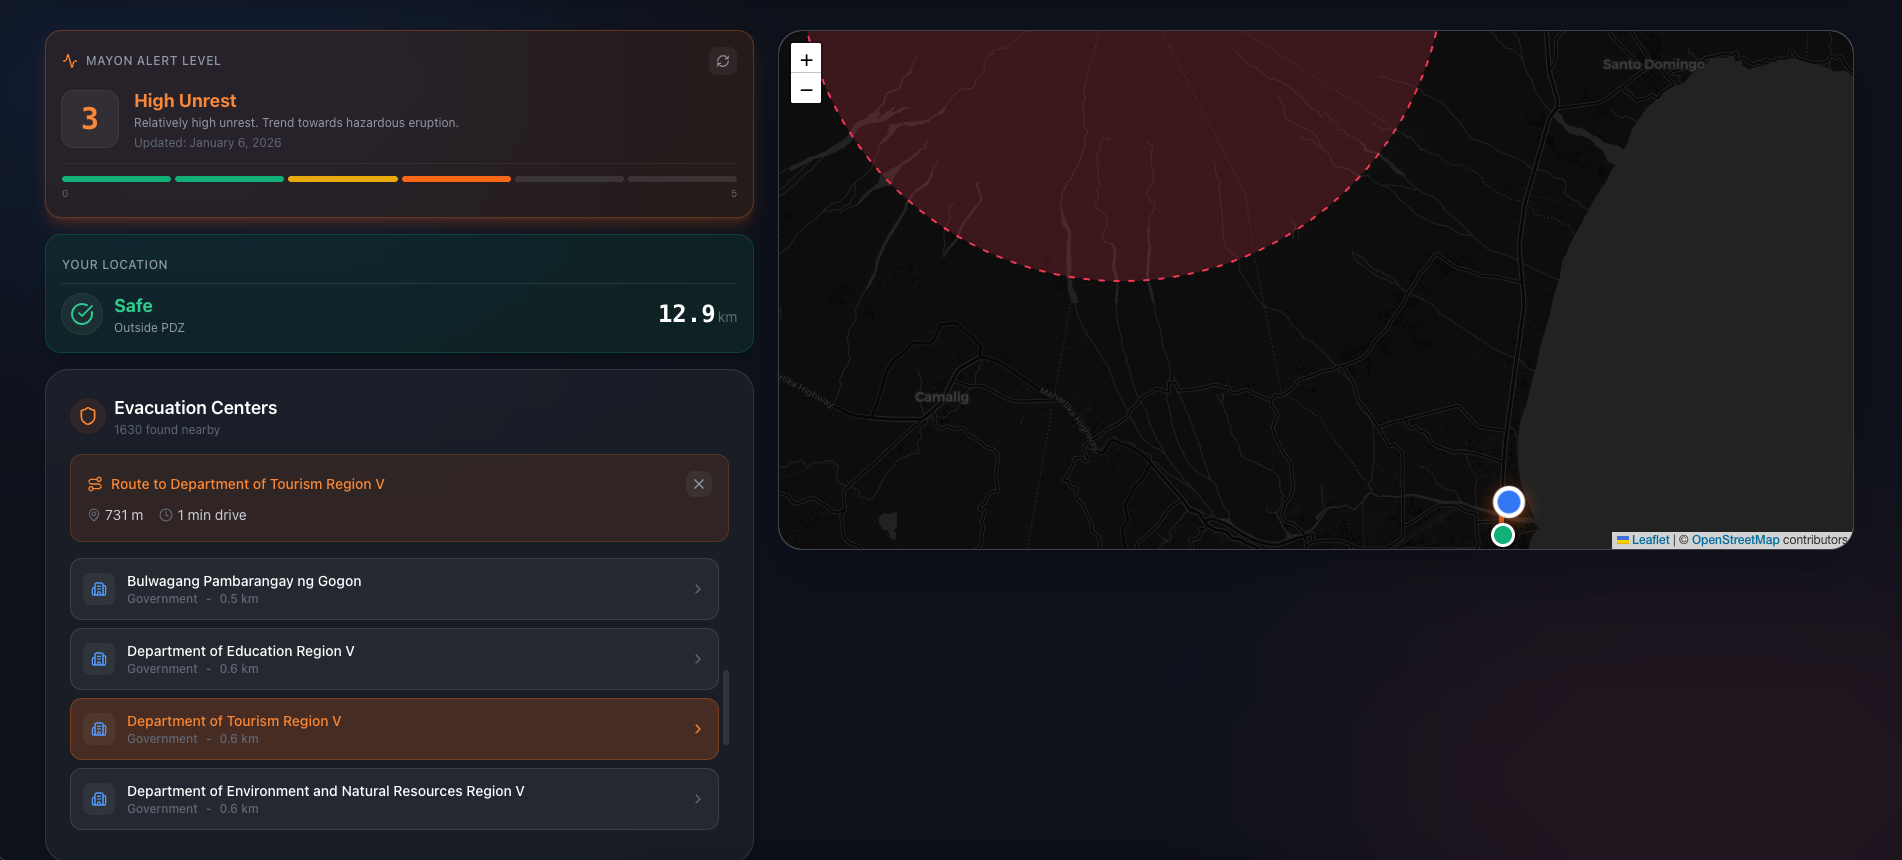
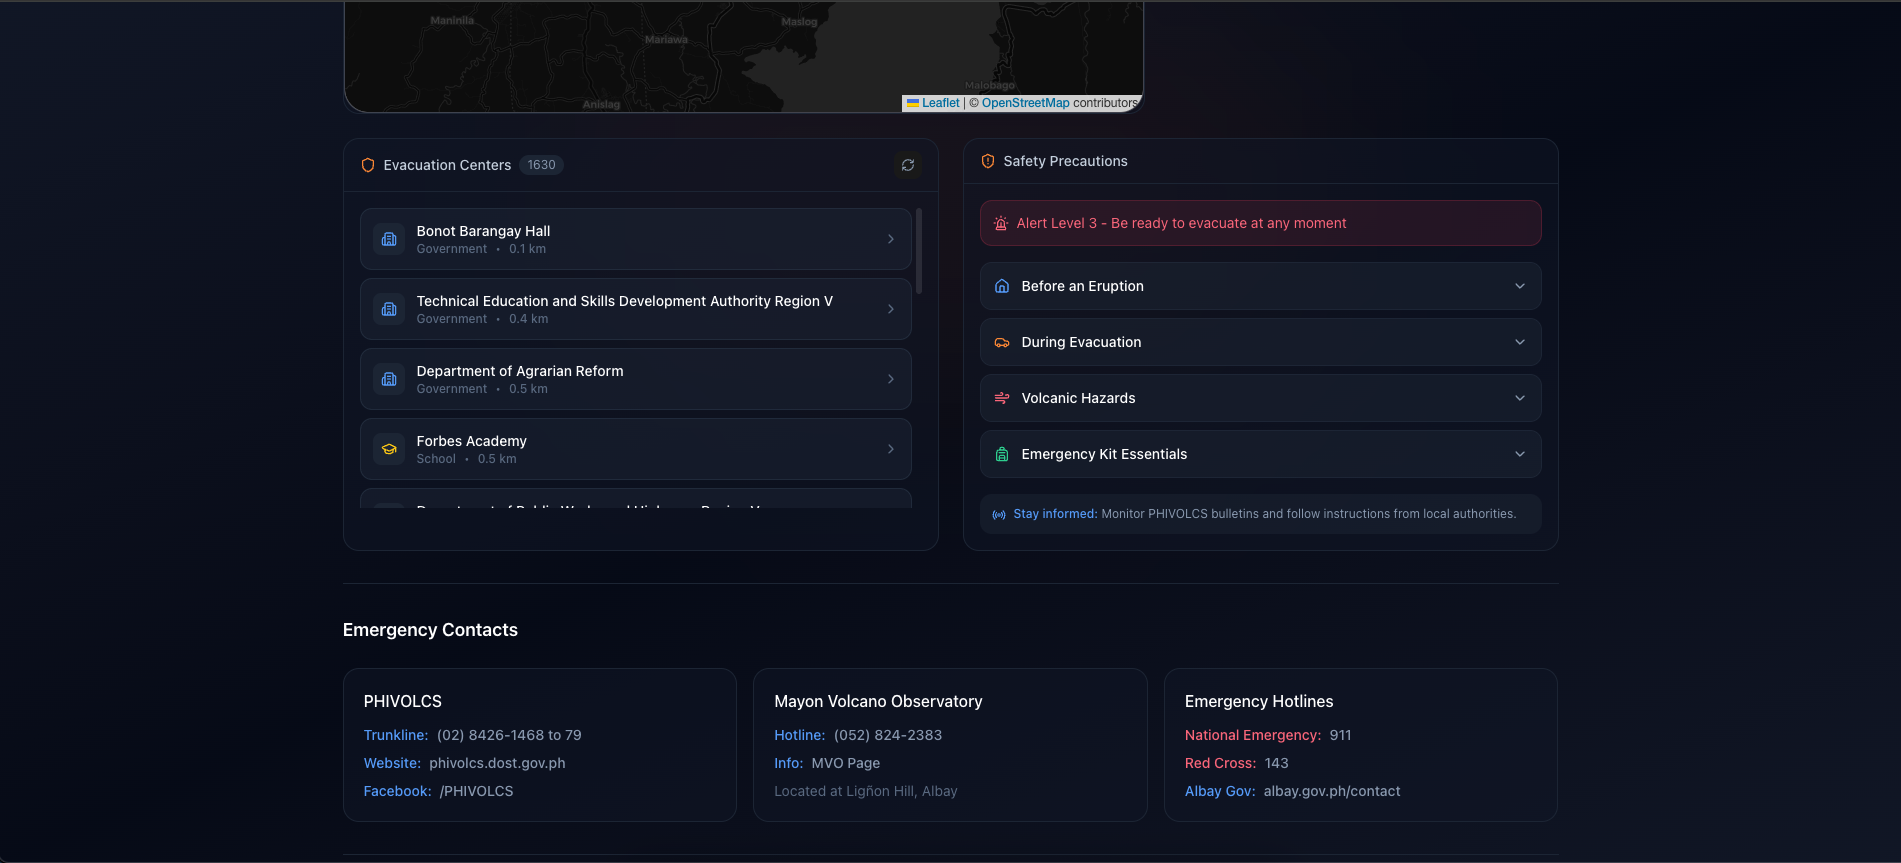
update ligtas mayon project

diff --git a/components/Portfolio.tsx b/components/Portfolio.tsx
@@ -32,9 +32,9 @@ const projects = [
     inProgress: true, // This will show skeleton loader
   },
   {
-    title: "Mayon Safety Zone",
+    title: "Ligtas Mayon",
     description:
-      "A real-time geolocation web app that helps users determine their proximity to Mayon Volcano's 6km Permanent Danger Zone. Built with React, TypeScript, Leaflet, and Nominatim API for location search.",
+      "Ligtas Mayon is a web-based safety monitoring tool for communities living near Mayon Volcano in Albay, Philippines. It provides real-time distance calculations to the 6km Permanent Danger Zone, evacuation center routing via Google Maps, and safety guidelines—all available in English, Filipino, and Bikol.",
     images: [mayon_img1, mayon_img2],
     tech: [
       "React",
@@ -46,7 +46,7 @@ const projects = [
       "Vercel",
     ],
     year: "2025",
-    website: "https://mayon-geo-pdz.vercel.app/",
+    website: "https://mayon-geo.vercel.app/",
     github: "https://github.com/ogbry/mayon-geo-pdz",
     type: "Personal",
   },
